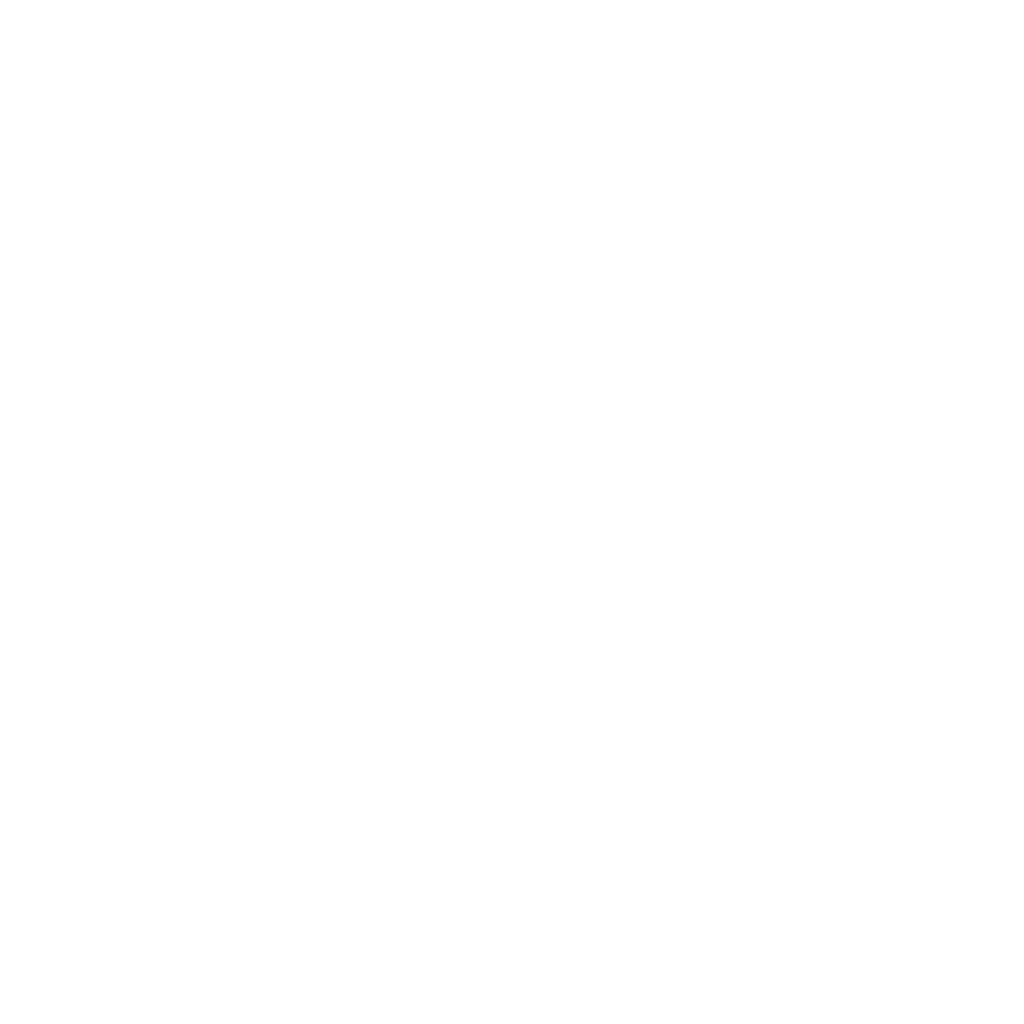
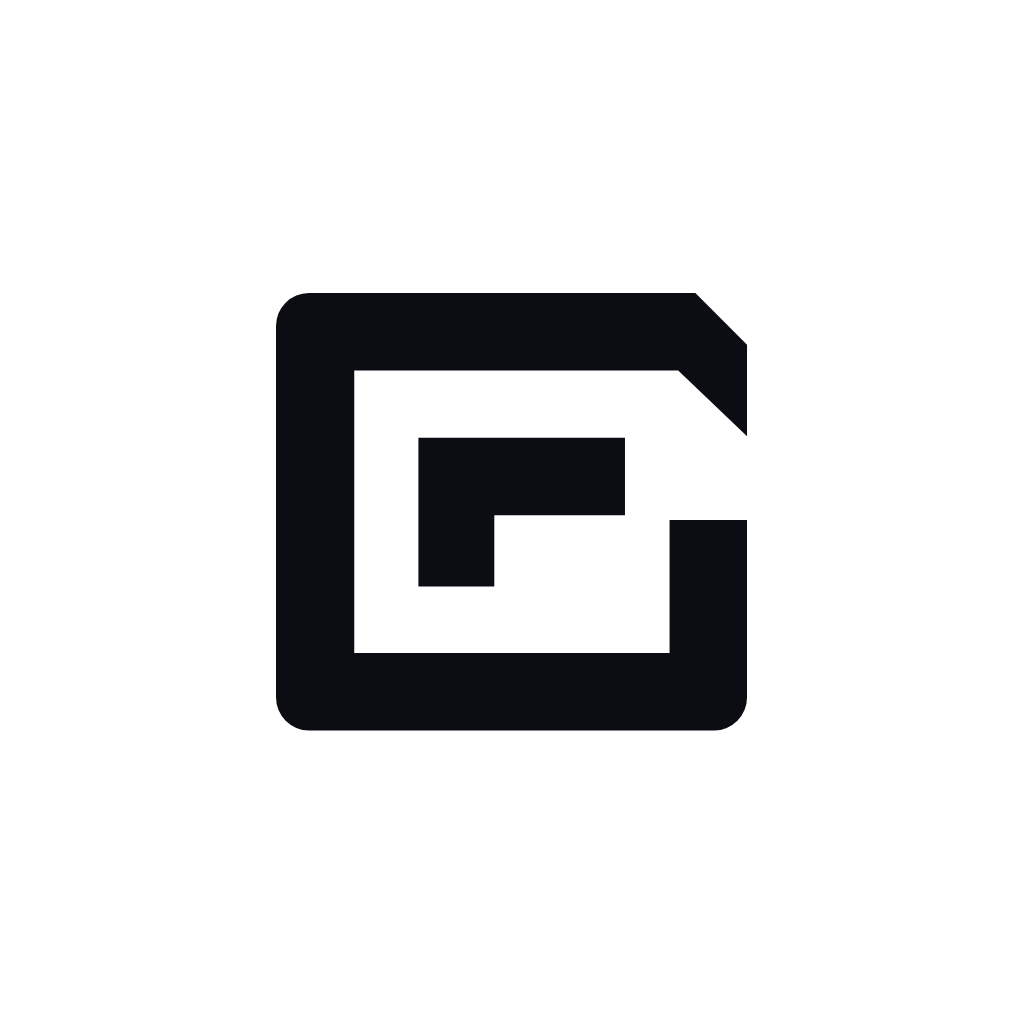
Приложение водителя: новый логотип
Знак LogiCore векторной копией присланного логотипа (assets/logo.svg); из него — значок приложения, значок Android (знак в безопасной зоне), заставка и иконка вкладки браузера. Фон значка и заставки — белый вместо синего. На экране входа — белый знак рядом с названием.

Changed region(s): [[0.25, 0.2812, 0.75, 0.7188], [0.4062, 0.4062, 0.625, 0.5938]]

diff --git a/apps/mobile/app/login.tsx b/apps/mobile/app/login.tsx
@@ -10,6 +10,7 @@ import {
     ActivityIndicator,
     Alert,
     ScrollView,
+    Image,
 } from 'react-native';
 import { Ionicons } from '@expo/vector-icons';
 import { router } from 'expo-router';
@@ -97,9 +98,7 @@ export default function LoginScreen() {
                 {/* Бренд-шапка в редакционном стиле лендинга logicore.kz */}
                 <View style={styles.hero}>
                     <View style={styles.brandRow}>
-                        <View style={styles.brandMark}>
-                            <Ionicons name="navigate" size={15} color="#030712" />
-                        </View>
+                        <Image source={require('../assets/logo-mark-white.png')} style={styles.brandMark} resizeMode="contain" accessibilityLabel="Знак LogiCore" />
                         <Text style={styles.brand}>LogiCore</Text>
                     </View>
                     <Text style={styles.eyebrow}>(01 — Приложение водителя)</Text>
@@ -244,12 +243,8 @@ const styles = StyleSheet.create({
         marginBottom: 40,
     },
     brandMark: {
-        width: 30,
+        width: 32,
         height: 30,
-        borderRadius: 9,
-        backgroundColor: '#ffffff',
-        alignItems: 'center',
-        justifyContent: 'center',
     },
     brand: {
         fontFamily: FONT.display,
